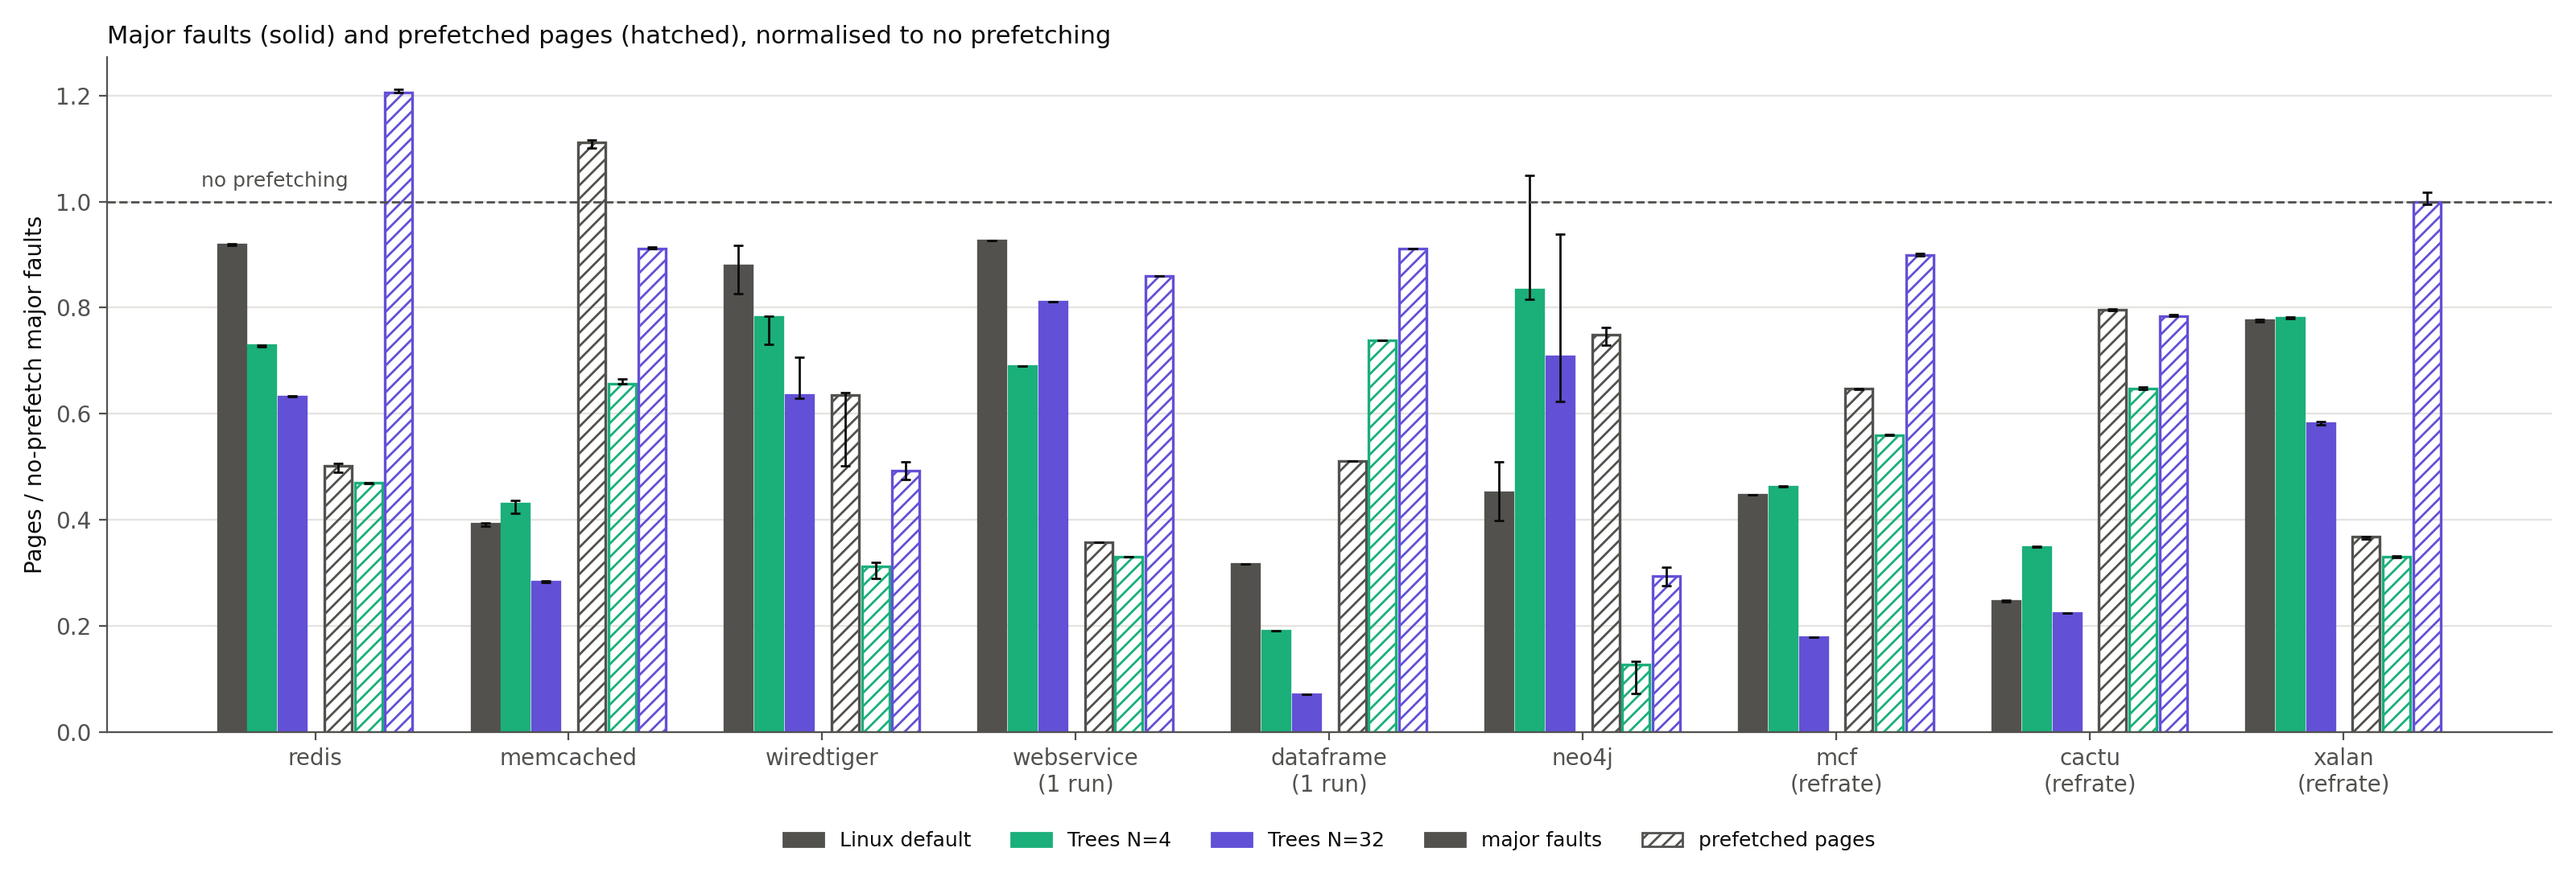
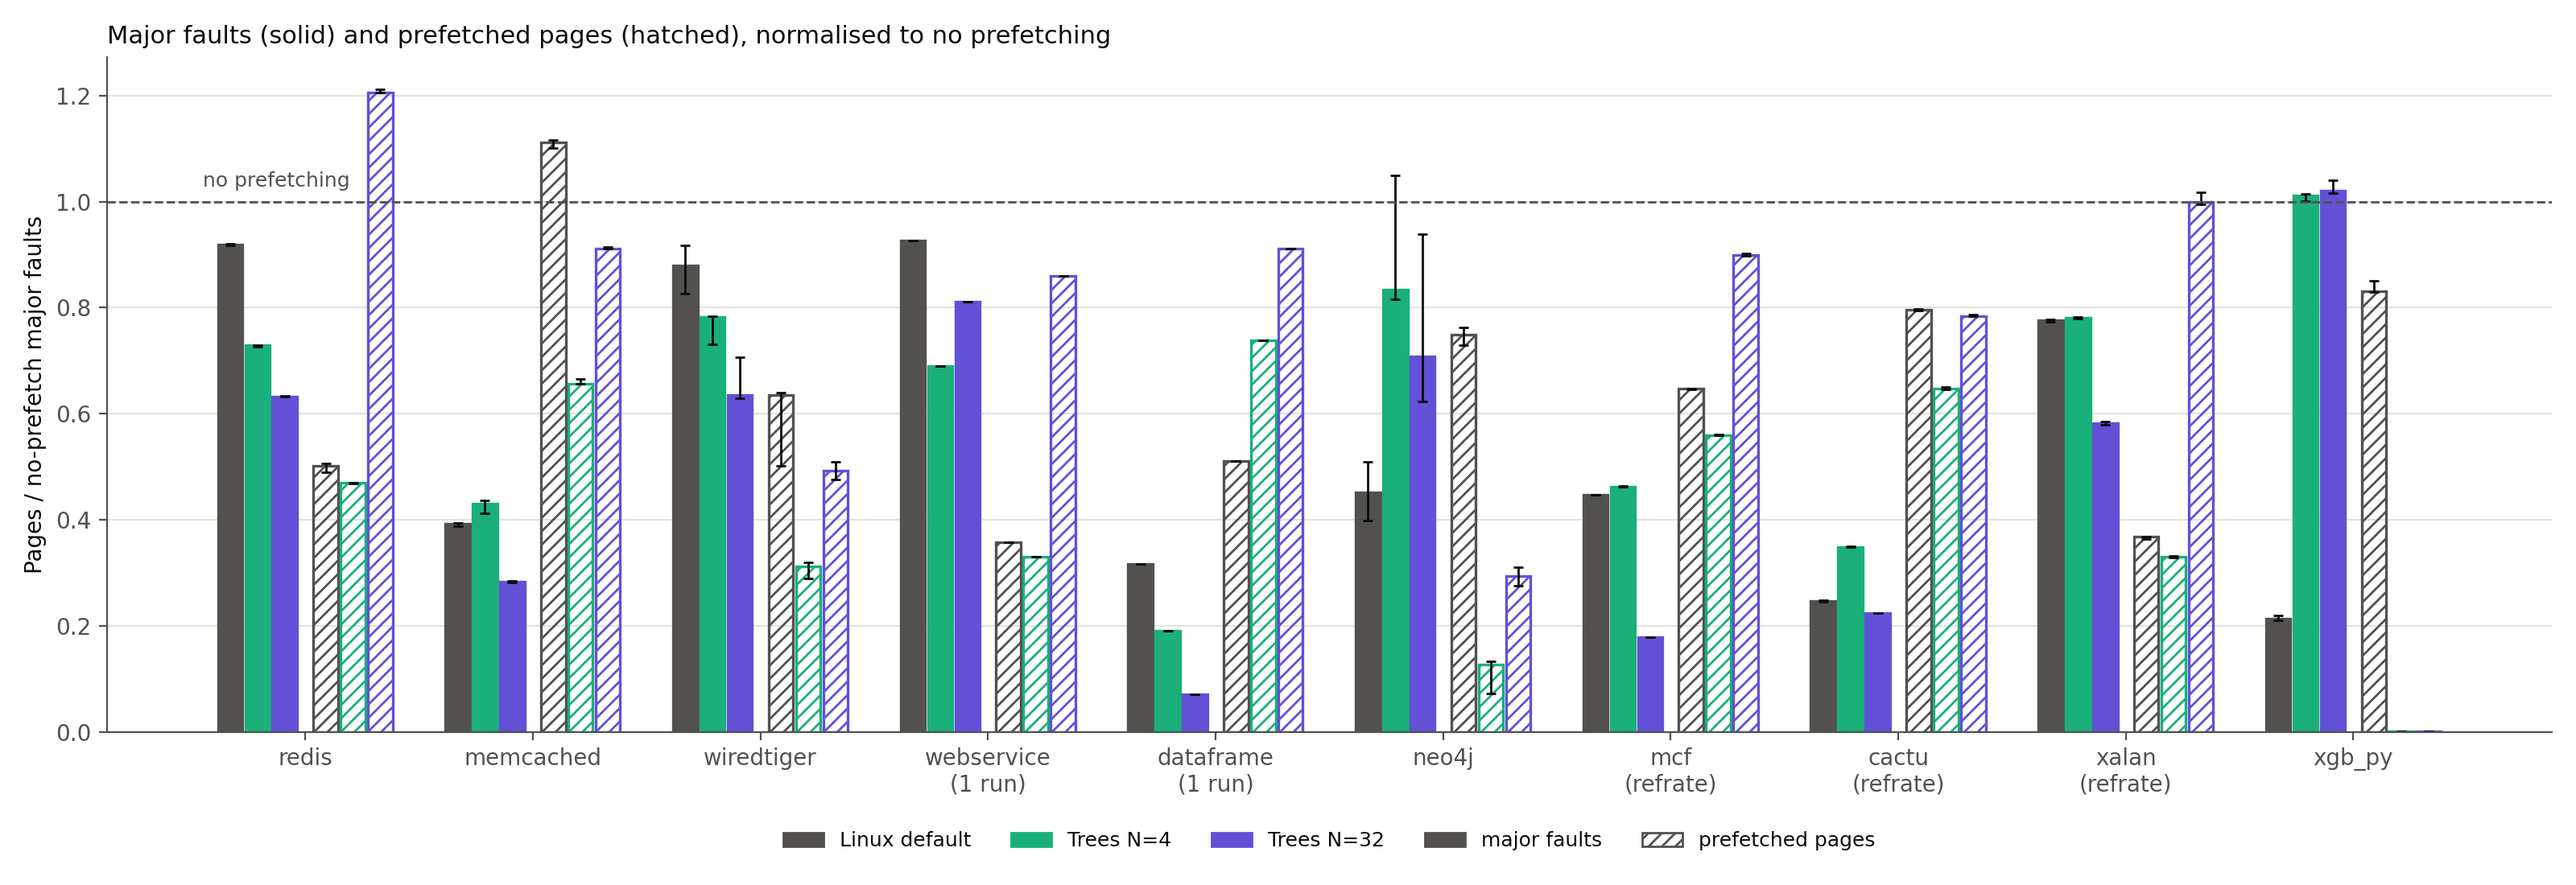
Add Python XGBoost (FarSight Adult->Taxi, 28 threads) to the linux66 plots

Changed region(s): [[0.0625, 0.0927, 0.9688, 0.8964]]

diff --git a/results/linux66/plot.py b/results/linux66/plot.py
@@ -19,7 +19,7 @@ import matplotlib.pyplot as plt
 HERE = os.path.dirname(os.path.abspath(__file__))
 CSV = sys.argv[1] if len(sys.argv) > 1 else os.path.join(HERE, "results_all.csv")
 WORKLOADS = ["redis", "memcached", "wiredtiger", "webservice", "dataframe", "neo4j",
-             "mcf_ref", "cactu_ref", "xalan_ref"]
+             "mcf_ref", "cactu_ref", "xalan_ref", "xgb_py"]
 # SPEC: refrate input, trees trained on the train input only
 SAME_INPUT = set()
 CONFIGS = ["default", "n4_c0", "n32_c0"]   # claim-rule (c1) trees dropped
